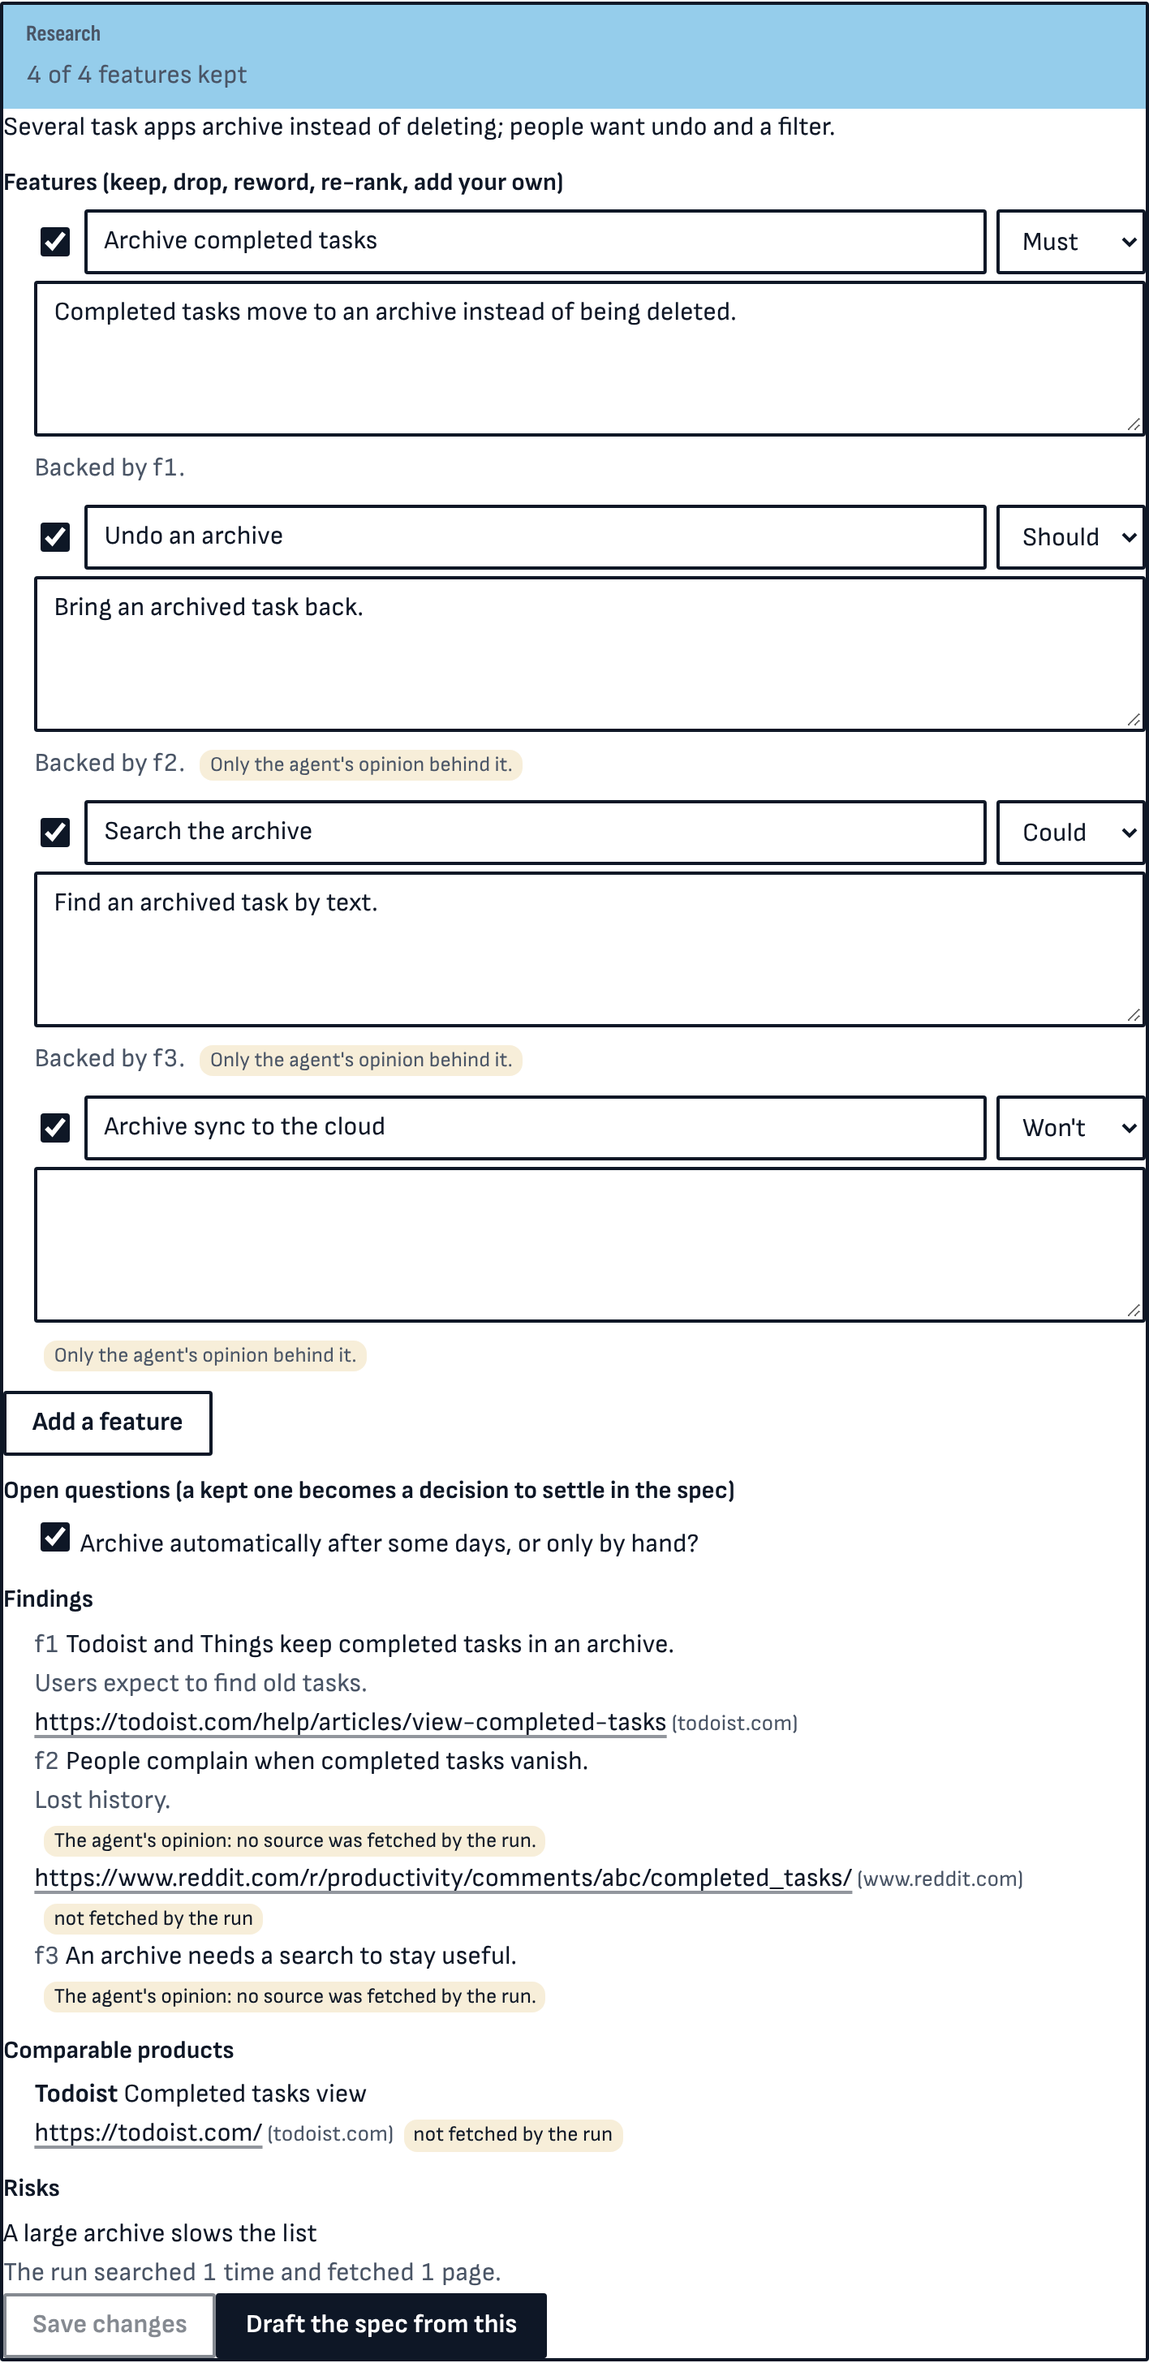
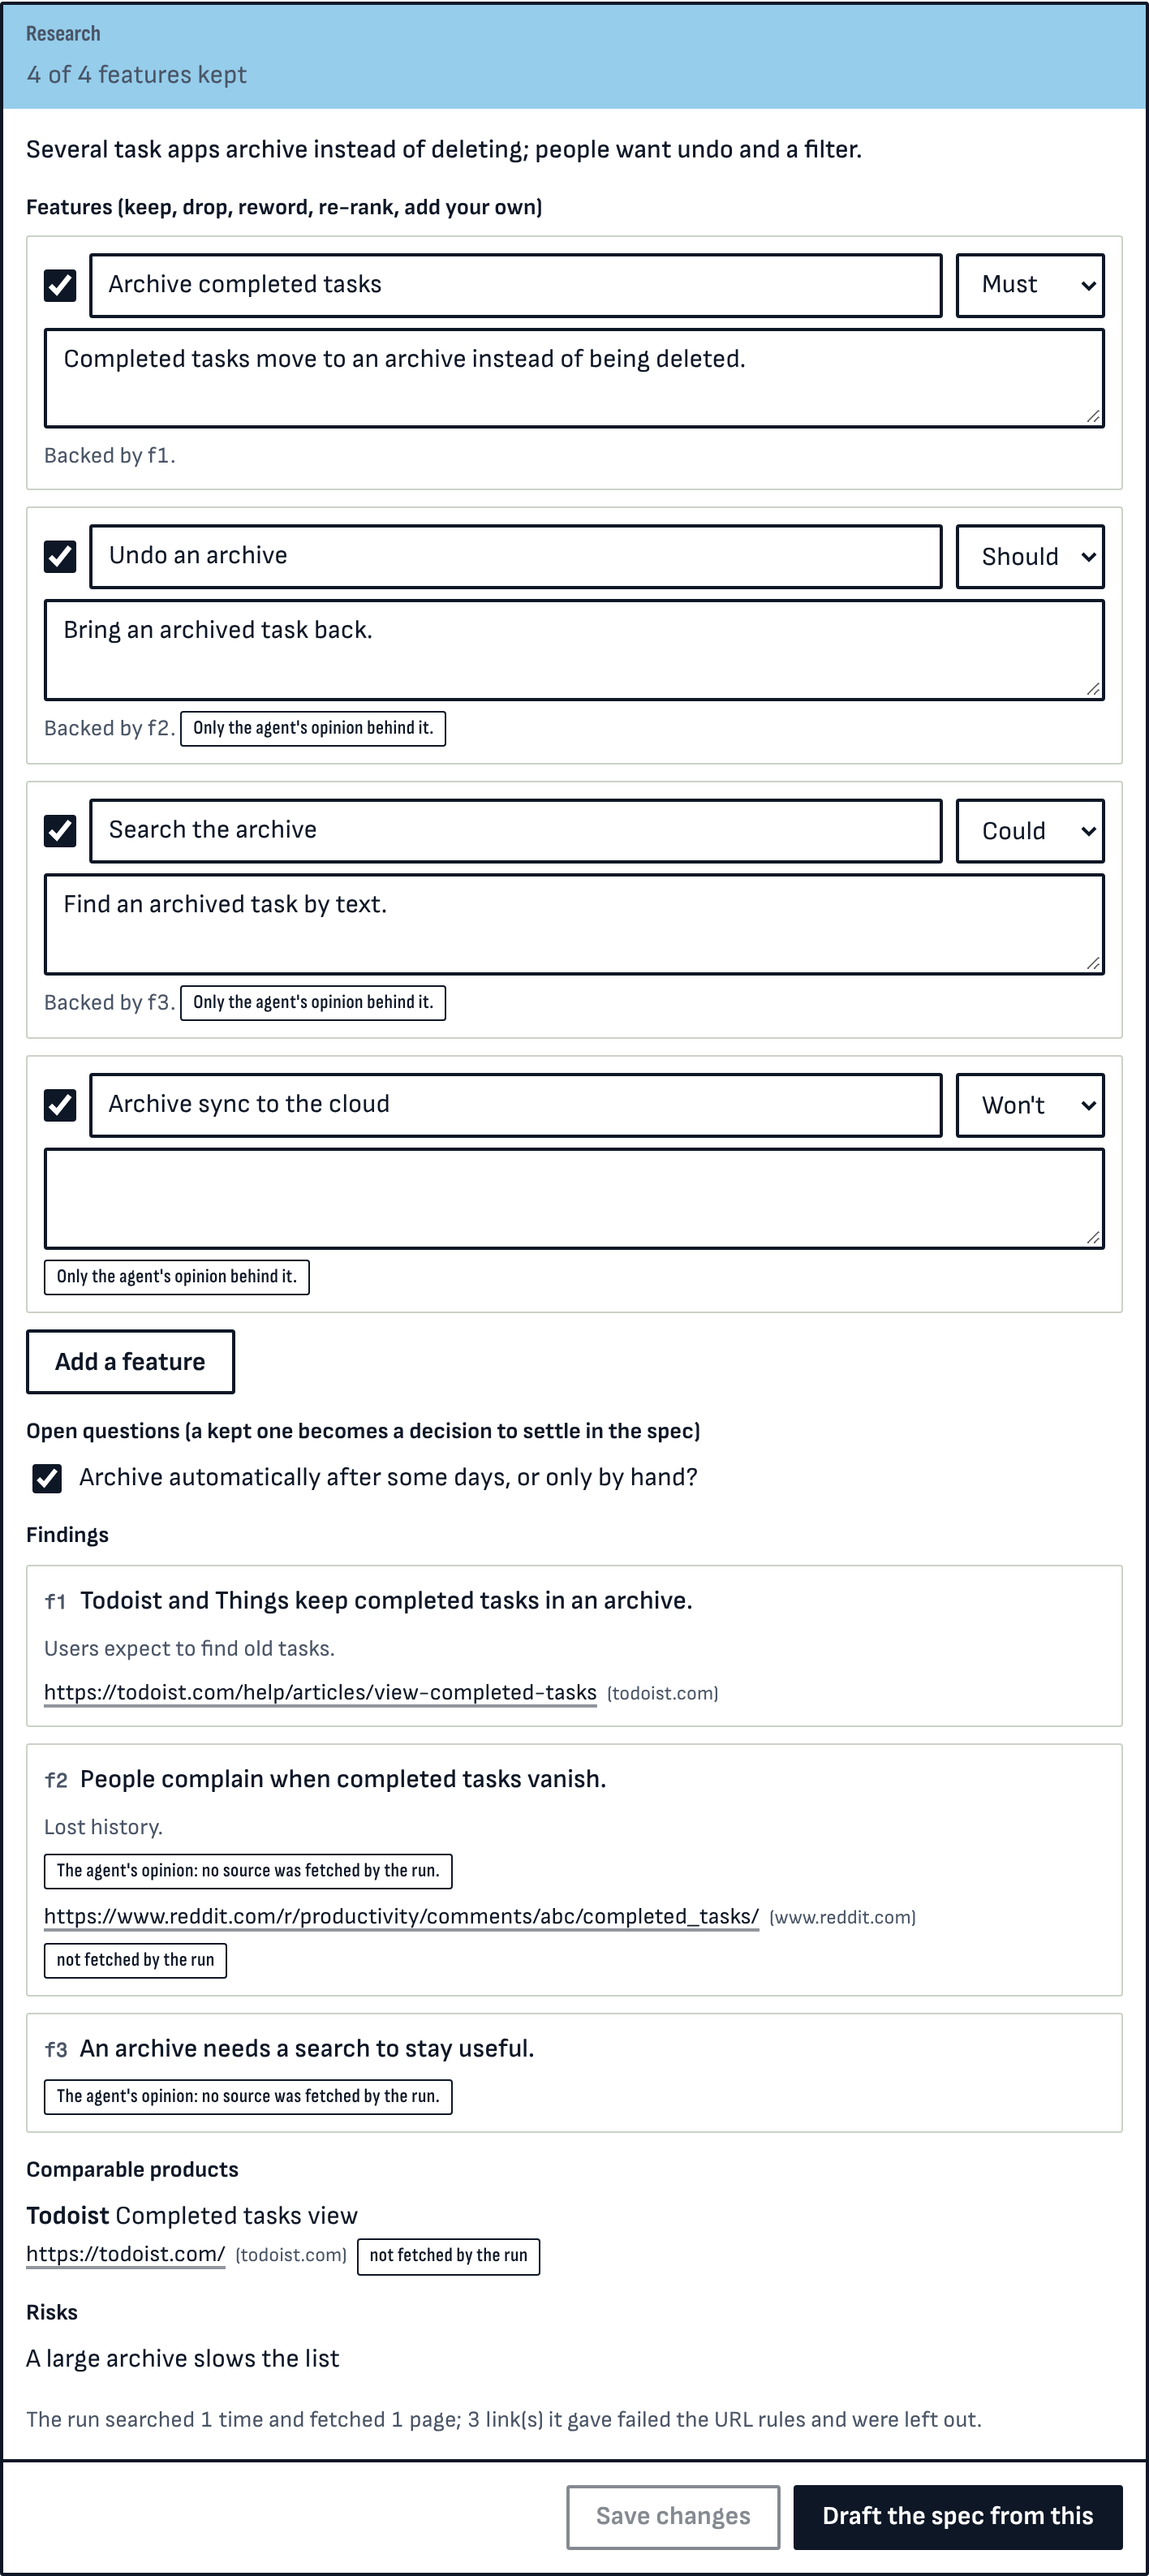
dashboard: the research card uses the dashboard's own spacing, type and tags
The card's sections sat flush against its border and its styles were written
outside the views layer with raw sizes. They now live in the layer and use the
tokens every other card uses: 14px gutters, bordered rows for features and
findings (as spec clauses have), the shared badge for the "not fetched" and
"agent's opinion" marks, and the framed action row.

The browser suite takes the docs picture on a viewport taller than the card
(an element that does not fit the viewport was captured at the wrong offset)
and leaves the hostile finding, which it checks separately, out of the picture.
docs/img/research.png is retaken.

Changed region(s): [[0.0, 0.0, 1.0, 1.0], [0.8079, 0.7812, 0.839, 0.8125]]

diff --git a/packages/dispatch/src/api/web/css/views/create.css b/packages/dispatch/src/api/web/css/views/create.css
@@ -680,87 +680,155 @@
       padding: 10px;
     }
   }
-}
 
-/* ---------------------------------------------------------------------------
-   Research first (backlog 69): the checkbox on the brief form and the research
-   card. Every value in the card is plain text; links are only safe https sources.
-   --------------------------------------------------------------------------- */
-.pb-research {
-  display: flex;
-  flex-direction: column;
-  gap: 2px;
-  margin: 6px 0;
-}
-.pb-research[hidden] {
-  display: none;
-}
-.pb-research-label {
-  display: inline-flex;
-  align-items: center;
-  gap: 6px;
-  font-weight: 600;
-  cursor: pointer;
-}
-.pb-research-label:has(.pb-research-box:disabled) {
-  cursor: not-allowed;
-  opacity: 0.7;
-}
-.pb-research-hint {
-  font-size: 0.85em;
-}
-.rs-card .rs-section {
-  margin-top: 12px;
-}
-.rs-card .rs-h {
-  margin: 0 0 6px;
-  font-size: 0.95em;
-}
-.rs-features,
-.rs-findings,
-.rs-questions,
-.rs-comparables {
-  margin: 0;
-  padding-left: 1.2em;
-}
-.rs-feature {
-  margin-bottom: 10px;
-}
-.rs-feature.rs-dropped .rs-title-input,
-.rs-feature.rs-dropped .rs-desc {
-  opacity: 0.55;
-  text-decoration: line-through;
-}
-.rs-feature-row {
-  display: flex;
-  gap: 6px;
-  align-items: center;
-}
-.rs-title-input {
-  flex: 1;
-  min-width: 0;
-}
-.rs-desc {
-  width: 100%;
-  margin-top: 4px;
-  box-sizing: border-box;
-}
-.rs-mark {
-  display: inline-block;
-  margin-left: 6px;
-  padding: 0 6px;
-  border-radius: 8px;
-  font-size: 0.8em;
-  background: var(--warn-bg, rgba(200, 140, 0, 0.15));
-}
-.rs-source {
-  word-break: break-all;
-}
-.rs-host {
-  font-size: 0.85em;
-}
-.rs-running {
-  display: flex;
-  gap: 8px;
-  align-items: center;
+  /* Research first: the checkbox on the brief form and the research card. Every
+     value in the card is plain text; a link is only ever a safe https source. */
+  .pb-research {
+    display: grid;
+    gap: 2px;
+    margin: 6px 0;
+  }
+  .pb-research[hidden] {
+    display: none;
+  }
+  .pb-research-label {
+    display: inline-flex;
+    align-items: center;
+    gap: 8px;
+    font-weight: 600;
+    cursor: pointer;
+  }
+  .pb-research-label:has(.pb-research-box:disabled) {
+    cursor: not-allowed;
+    color: var(--ink-2);
+  }
+  .pb-research-hint {
+    font-size: var(--t14);
+    color: var(--ink-2);
+  }
+  .rs-card {
+    gap: 14px;
+    padding-bottom: 14px;
+  }
+  .rs-card > :not(.pb-proposal-head, .pb-proposal-actions) {
+    margin: 0 14px;
+  }
+  .rs-card:has(> .pb-proposal-actions) {
+    padding-bottom: 0;
+  }
+  .rs-card > .pb-proposal-actions {
+    display: flex;
+    justify-content: flex-end;
+    gap: 8px;
+    flex-wrap: wrap;
+    padding: 14px;
+    border-top: var(--frame);
+  }
+  .rs-summary {
+    font: 500 var(--t16) / 1.45 var(--f-text);
+  }
+  .rs-section {
+    display: grid;
+    gap: 8px;
+  }
+  .rs-h {
+    margin: 0;
+    font: 700 var(--t14) / 1.3 var(--f-text);
+  }
+  .rs-features,
+  .rs-findings,
+  .rs-questions,
+  .rs-comparables,
+  .rs-sources {
+    display: grid;
+    gap: 10px;
+    margin: 0;
+    padding: 0;
+    list-style: none;
+  }
+  .rs-feature,
+  .rs-finding {
+    display: grid;
+    gap: 6px;
+    padding: 10px;
+    border: 1.5px solid var(--rule);
+    border-radius: var(--r);
+  }
+  .rs-feature.rs-dropped .rs-title-input,
+  .rs-feature.rs-dropped .rs-desc {
+    color: var(--ink-2);
+    text-decoration: line-through;
+  }
+  .rs-feature-row {
+    display: flex;
+    gap: 8px;
+    align-items: center;
+  }
+  .rs-keep {
+    flex: none;
+    width: 20px;
+    height: 20px;
+    margin: 0;
+  }
+  .rs-title-input {
+    flex: 1;
+    min-width: 0;
+  }
+  .rs-priority {
+    flex: none;
+  }
+  .rs-desc {
+    width: 100%;
+    min-height: 0;
+    box-sizing: border-box;
+    resize: vertical;
+  }
+  .rs-feature-meta,
+  .rs-why,
+  .rs-log {
+    font-size: var(--t14);
+    color: var(--ink-2);
+  }
+  .rs-feature-meta:empty {
+    display: none;
+  }
+  .rs-add {
+    justify-self: start;
+    margin-top: 10px;
+  }
+  .rs-q {
+    display: flex;
+    gap: 8px;
+    align-items: flex-start;
+  }
+  .rs-claim {
+    font-weight: 600;
+  }
+  .rs-id {
+    font: 700 var(--t12) / 1 var(--f-mono);
+    color: var(--ink-2);
+  }
+  .rs-mark {
+    justify-self: start;
+    white-space: normal;
+  }
+  .rs-source {
+    display: flex;
+    gap: 6px;
+    align-items: baseline;
+    flex-wrap: wrap;
+    font-size: var(--t14);
+  }
+  .rs-link {
+    overflow-wrap: anywhere;
+  }
+  .rs-host {
+    font-size: var(--t12);
+    color: var(--ink-2);
+  }
+  .rs-running {
+    display: flex;
+    gap: 8px;
+    align-items: center;
+  }
 }

diff --git a/packages/dispatch/src/api/web/js/views/research.js b/packages/dispatch/src/api/web/js/views/research.js
@@ -56,7 +56,7 @@ export function renderResearchSource(source) {
       ` (${String(source && source.host ? source.host : "unknown host")})`,
     ),
     source && source.fetched === false
-      ? el("span", { class: "rs-mark" }, "not fetched by the run")
+      ? el("span", { class: "rs-mark badge warn" }, "not fetched by the run")
       : null,
   ]);
 }
@@ -81,7 +81,7 @@ function renderFindings(findings) {
         f.opinion
           ? el(
               "div",
-              { class: "rs-mark" },
+              { class: "rs-mark badge warn" },
               "The agent's opinion: no source was fetched by the run.",
             )
           : null,
@@ -164,7 +164,7 @@ function renderFeatures(state, locked, repaint) {
           f.origin === "person" ? "Added by you. " : null,
           f.backed_by && f.backed_by.length ? `Backed by ${f.backed_by.join(", ")}. ` : null,
           f.unsupported && f.origin !== "person"
-            ? el("span", { class: "rs-mark" }, "Only the agent's opinion behind it.")
+            ? el("span", { class: "rs-mark badge warn" }, "Only the agent's opinion behind it.")
             : null,
         ]),
       ],
